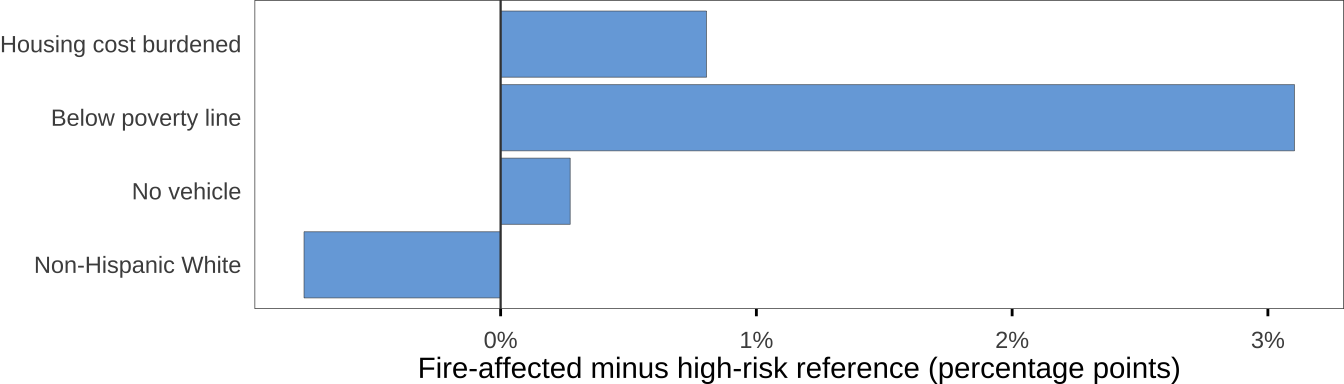
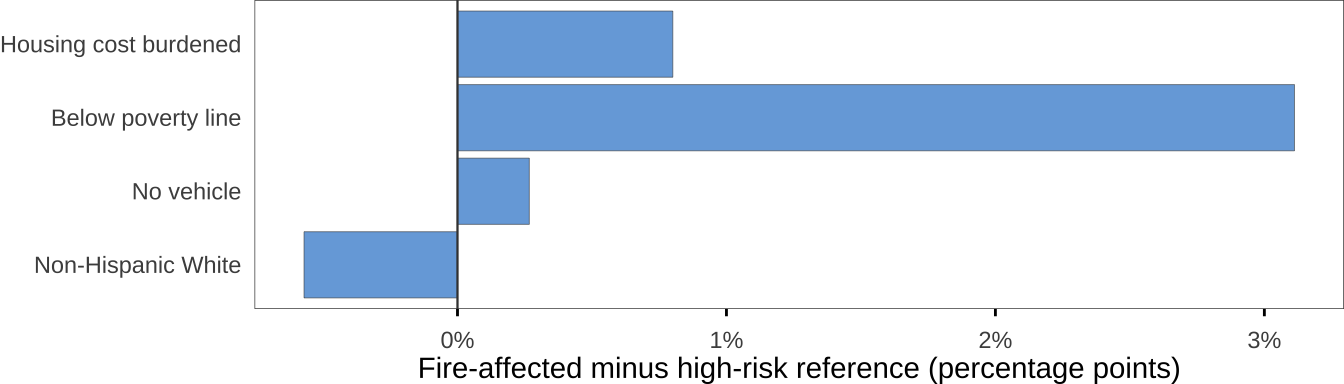
Built site for gh-pages

diff --git a/reports/population.html b/reports/population.html
@@ -117,7 +117,8 @@ ul.task-list li input[type="checkbox"] {
     <h2 id="toc-title">On this page</h2>
    
   <ul>
-  <li><a href="#vehicle-availability" id="toc-vehicle-availability" class="nav-link active" data-scroll-target="#vehicle-availability">Vehicle Availability</a></li>
+  <li><a href="#pop-over-time" id="toc-pop-over-time" class="nav-link active" data-scroll-target="#pop-over-time">Pop over time</a></li>
+  <li><a href="#vehicle-availability" id="toc-vehicle-availability" class="nav-link" data-scroll-target="#vehicle-availability">Vehicle Availability</a></li>
   <li><a href="#race" id="toc-race" class="nav-link" data-scroll-target="#race">Race</a></li>
   <li><a href="#poverty" id="toc-poverty" class="nav-link" data-scroll-target="#poverty">Poverty</a></li>
   <li><a href="#housing-cost-burden" id="toc-housing-cost-burden" class="nav-link" data-scroll-target="#housing-cost-burden">Housing Cost Burden</a></li>
@@ -226,6 +227,18 @@ ul.task-list li input[type="checkbox"] {
 </div>
 </div>
 </div>
+<section id="pop-over-time" class="level2">
+<h2 class="anchored" data-anchor-id="pop-over-time">Pop over time</h2>
+<div class="cell">
+<div class="cell-output-display">
+<div>
+<figure class="figure">
+<p><img src="population_files/figure-html/pop_affected-1.png" class="img-fluid figure-img" width="1536"></p>
+</figure>
+</div>
+</div>
+</div>
+</section>
 <section id="vehicle-availability" class="level2">
 <h2 class="anchored" data-anchor-id="vehicle-availability">Vehicle Availability</h2>
 <div class="cell">
